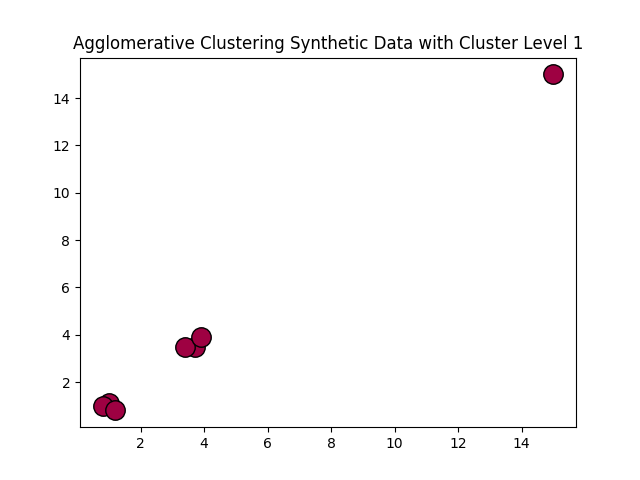
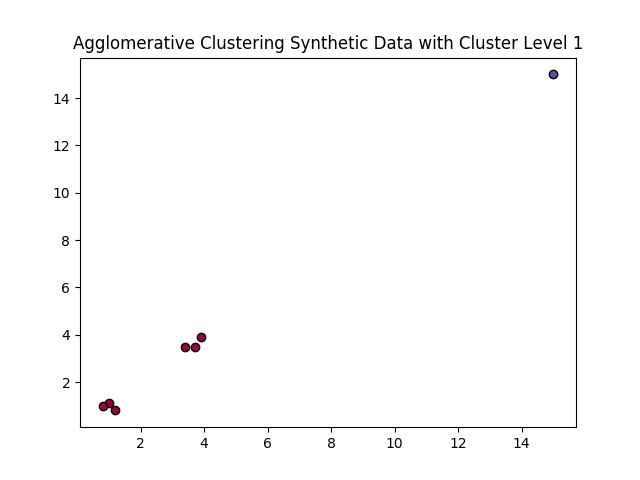
ran figures

Changed region(s): [[0.25, 0.6875, 0.3438, 0.75], [0.125, 0.8125, 0.2188, 0.875], [0.8438, 0.125, 0.875, 0.1875]]

diff --git a/experiments.py b/experiments.py
@@ -3,6 +3,9 @@ from sklearn.decomposition import PCA, IncrementalPCA
 from dbscan import DBSCAN
 from hac import HAC
 import numpy as np
+from sklearn.datasets import make_classification
+from sklearn.datasets import make_blobs
+from sklearn.datasets import make_gaussian_quantiles
 
 class ExperimentData:
     genome = []
@@ -82,15 +85,43 @@ class Experiments:
         pca = PCA(n_components=dimension)
         algorithm.run(pca.fit_transform(experimentData.poker), "Poker Data Set PCA")
 
-        algorithm.run(experimentData.dotaTest, "Dota Test Data Set")
-        pca = PCA(n_components=dimension)
-        algorithm.run(pca.fit_transform(experimentData.dotaTest), "Dota Test Data Set PCA")
-
         algorithm.run(experimentData.arrhythmia, "Arrhythmia Data Set")
         pca = PCA(n_components=dimension)
         algorithm.run(pca.fit_transform(experimentData.dotaTest), "Arrhythmia Data Set PCA")
 
+        algorithm.run(experimentData.dotaTest, "Dota Test Data Set")
+        pca = PCA(n_components=dimension)
+        algorithm.run(pca.fit_transform(experimentData.dotaTest), "Dota Test Data Set PCA")
+
         print "done"
+
+    def runSynthetic(self, algorithm):
+        dbscan = DBSCAN(min_points=13)
+        hac = HAC()
+
+        X1, Y2 = make_classification(n_features=2, n_redundant=0, n_informative=2)
+        X2, Y2 = make_classification(n_features=2, n_redundant=0, n_informative=2)
+
+        dbscan.run(X1, "1")
+        hac.run(X2, "1")
+        X1, Y1 = make_gaussian_quantiles(n_features=2, n_classes=3)
+        X2, Y1 = make_gaussian_quantiles(n_features=2, n_classes=3)
+
+        dbscan.run(X1, "2")
+        hac.run(X2, "2")
+
+        X1, Y1 = make_classification(n_features=2, n_redundant=0, n_informative=2,
+                                     n_clusters_per_class=1, n_classes=3)
+        X2, Y1 = make_classification(n_features=2, n_redundant=0, n_informative=2,
+                                     n_clusters_per_class=1, n_classes=3)
+        dbscan.run(X1, "3")
+        hac.run(X2, "3")
+        X1, Y1 = make_blobs(n_features=2, centers=3)
+        X2, Y1 = make_blobs(n_features=2, centers=3)
+
+        dbscan.run(X1, "4")
+        hac.run(X2, "4")
+
 
 def test_DBSCAN():
     X = np.array([[1, 1.1, 1], [1.2, .8, 1.1], [.8, 1, 1.2], [3.7, 3.5, 3.6], [3.9, 3.9, 3.5], [3.4, 3.5, 3.7],[15,15, 15]])
@@ -102,7 +133,7 @@ def test_DBSCAN():
 def teset_HAC():
     test = [[1, 1.1, 1], [1.2, .8, 1.1], [.8, 1, 1.2], [3.7, 3.5, 3.6], [3.9, 3.9, 3.5], [3.4, 3.5, 3.7],[15,15, 15]]
     hac = HAC()
-    for i in xrange(3):
+    for i in xrange(1,4):
         hac.clusterLevel = i + 1
         hac.run(test, "Synthetic Data with Cluster Level " + str(i))
 
@@ -112,7 +143,11 @@ teset_HAC()
 dbscan = DBSCAN()
 hac = HAC()
 experiment = Experiments()
-ind = 750
+
+experiment.runSynthetic(dbscan)
+experiment.runSynthetic(hac)
+
+ind = 500
 dim = 3
 experiment.run(dbscan, True, ind, dim)
 experiment.run(hac, True, ind, dim)

diff --git a/dbscan.py b/dbscan.py
@@ -30,15 +30,15 @@ class DBSCAN:
     def regionQuery(self, dataMatrix, pointIndex, eps):
         neighbors = []
         for i in xrange(len(dataMatrix)):
-            if (self.dist(dataMatrix[i], dataMatrix[pointIndex]) < eps):
+            if (self.dist(dataMatrix[i], dataMatrix[pointIndex]) <= eps):
                 neighbors.append(i)
+        neighbors.remove(pointIndex)
         return neighbors
 
-    def expandCluster(self, dataMatrix, eps, minPoints, clusters, pointIndex, clusterIndex):
+    def expandCluster(self, dataMatrix, neighbors, eps, minPoints, clusters, pointIndex, clusterIndex):
         clusters[pointIndex] = clusterIndex
-        neighbors = self.regionQuery(dataMatrix, pointIndex, eps)
         for neighbors_iter in neighbors:
-            if(clusters[neighbors_iter] < 0): #if its not visited or noise
+            if(clusters[neighbors_iter] < 0):
                 clusters[neighbors_iter] = clusterIndex
                 neighbors_2 = self.regionQuery(dataMatrix, neighbors_iter, eps)
                 if(len(neighbors_2) > minPoints):
@@ -54,10 +54,10 @@ class DBSCAN:
                 continue
             neighbors = self.regionQuery(dataMatrix, i, eps)
             if(len(neighbors) < minPoints):
-                clusters[i] = NOISE
+                continue
             else:
                 self.expandCluster(dataMatrix, eps, minPoints, clusters, i, clusterIndex)
-            clusterIndex+=1
+                clusterIndex+=1
         return clusters
 
     def getMask(self, indexVal, array):
@@ -73,7 +73,7 @@ class DBSCAN:
         neigh.fit(dataMatrix)
         kNearestDist =  (neigh.kneighbors(dataMatrix, 3, return_distance=True)[0]).flatten()
         sortedDistance = sorted(kNearestDist[kNearestDist != 0])
-        return sortedDistance[len(sortedDistance)/2+1]
+        return sortedDistance[len(sortedDistance)*3/4]
 
     def run(self,dataMatrix, title="", show=False): #need to figure out how to automate this
         title = 'DBSCAN Clustering ' + title
@@ -84,7 +84,7 @@ class DBSCAN:
         clusters = self.run_dbscan(dataMatrix, self.eps, self.minPoints)
         end = datetime.datetime.now()
         print "start, end, end-start", start, end, end-start
-        with open("timing.txt", "a") as target:
+        with open("timing", "a") as target:
             target = open("timing", 'a')
             newline = "\n"
             target.write(title + newline)
@@ -99,11 +99,11 @@ class DBSCAN:
         for i in xrange(len(clusters)):
             cluster_ind = clusters[i]
             color = colorCombo[cluster_ind]
-            if cluster_ind == -1:
+            if cluster_ind == NOISE:
                 color = 'black'
 
             plt.plot(dataMatrix[i][0], dataMatrix[i][1], 'o', markerfacecolor=color,
-                     markeredgecolor='k', markersize=14)
+                     markeredgecolor='k', markersize=6)
 
         plt.title(title)
         plt.savefig("figure/" + title)

diff --git a/hac.py b/hac.py
@@ -66,7 +66,7 @@ class HAC:
                 cluster_ind = clusters[i][j]
 
                 plt.plot(dataMatrix[cluster_ind][0], dataMatrix[cluster_ind][1], 'o', markerfacecolor=color,
-                     markeredgecolor='k', markersize=14)
+                     markeredgecolor='k', markersize=6)
         plt.title(title)
         plt.savefig("figure/" + title)
         plt.clf()
